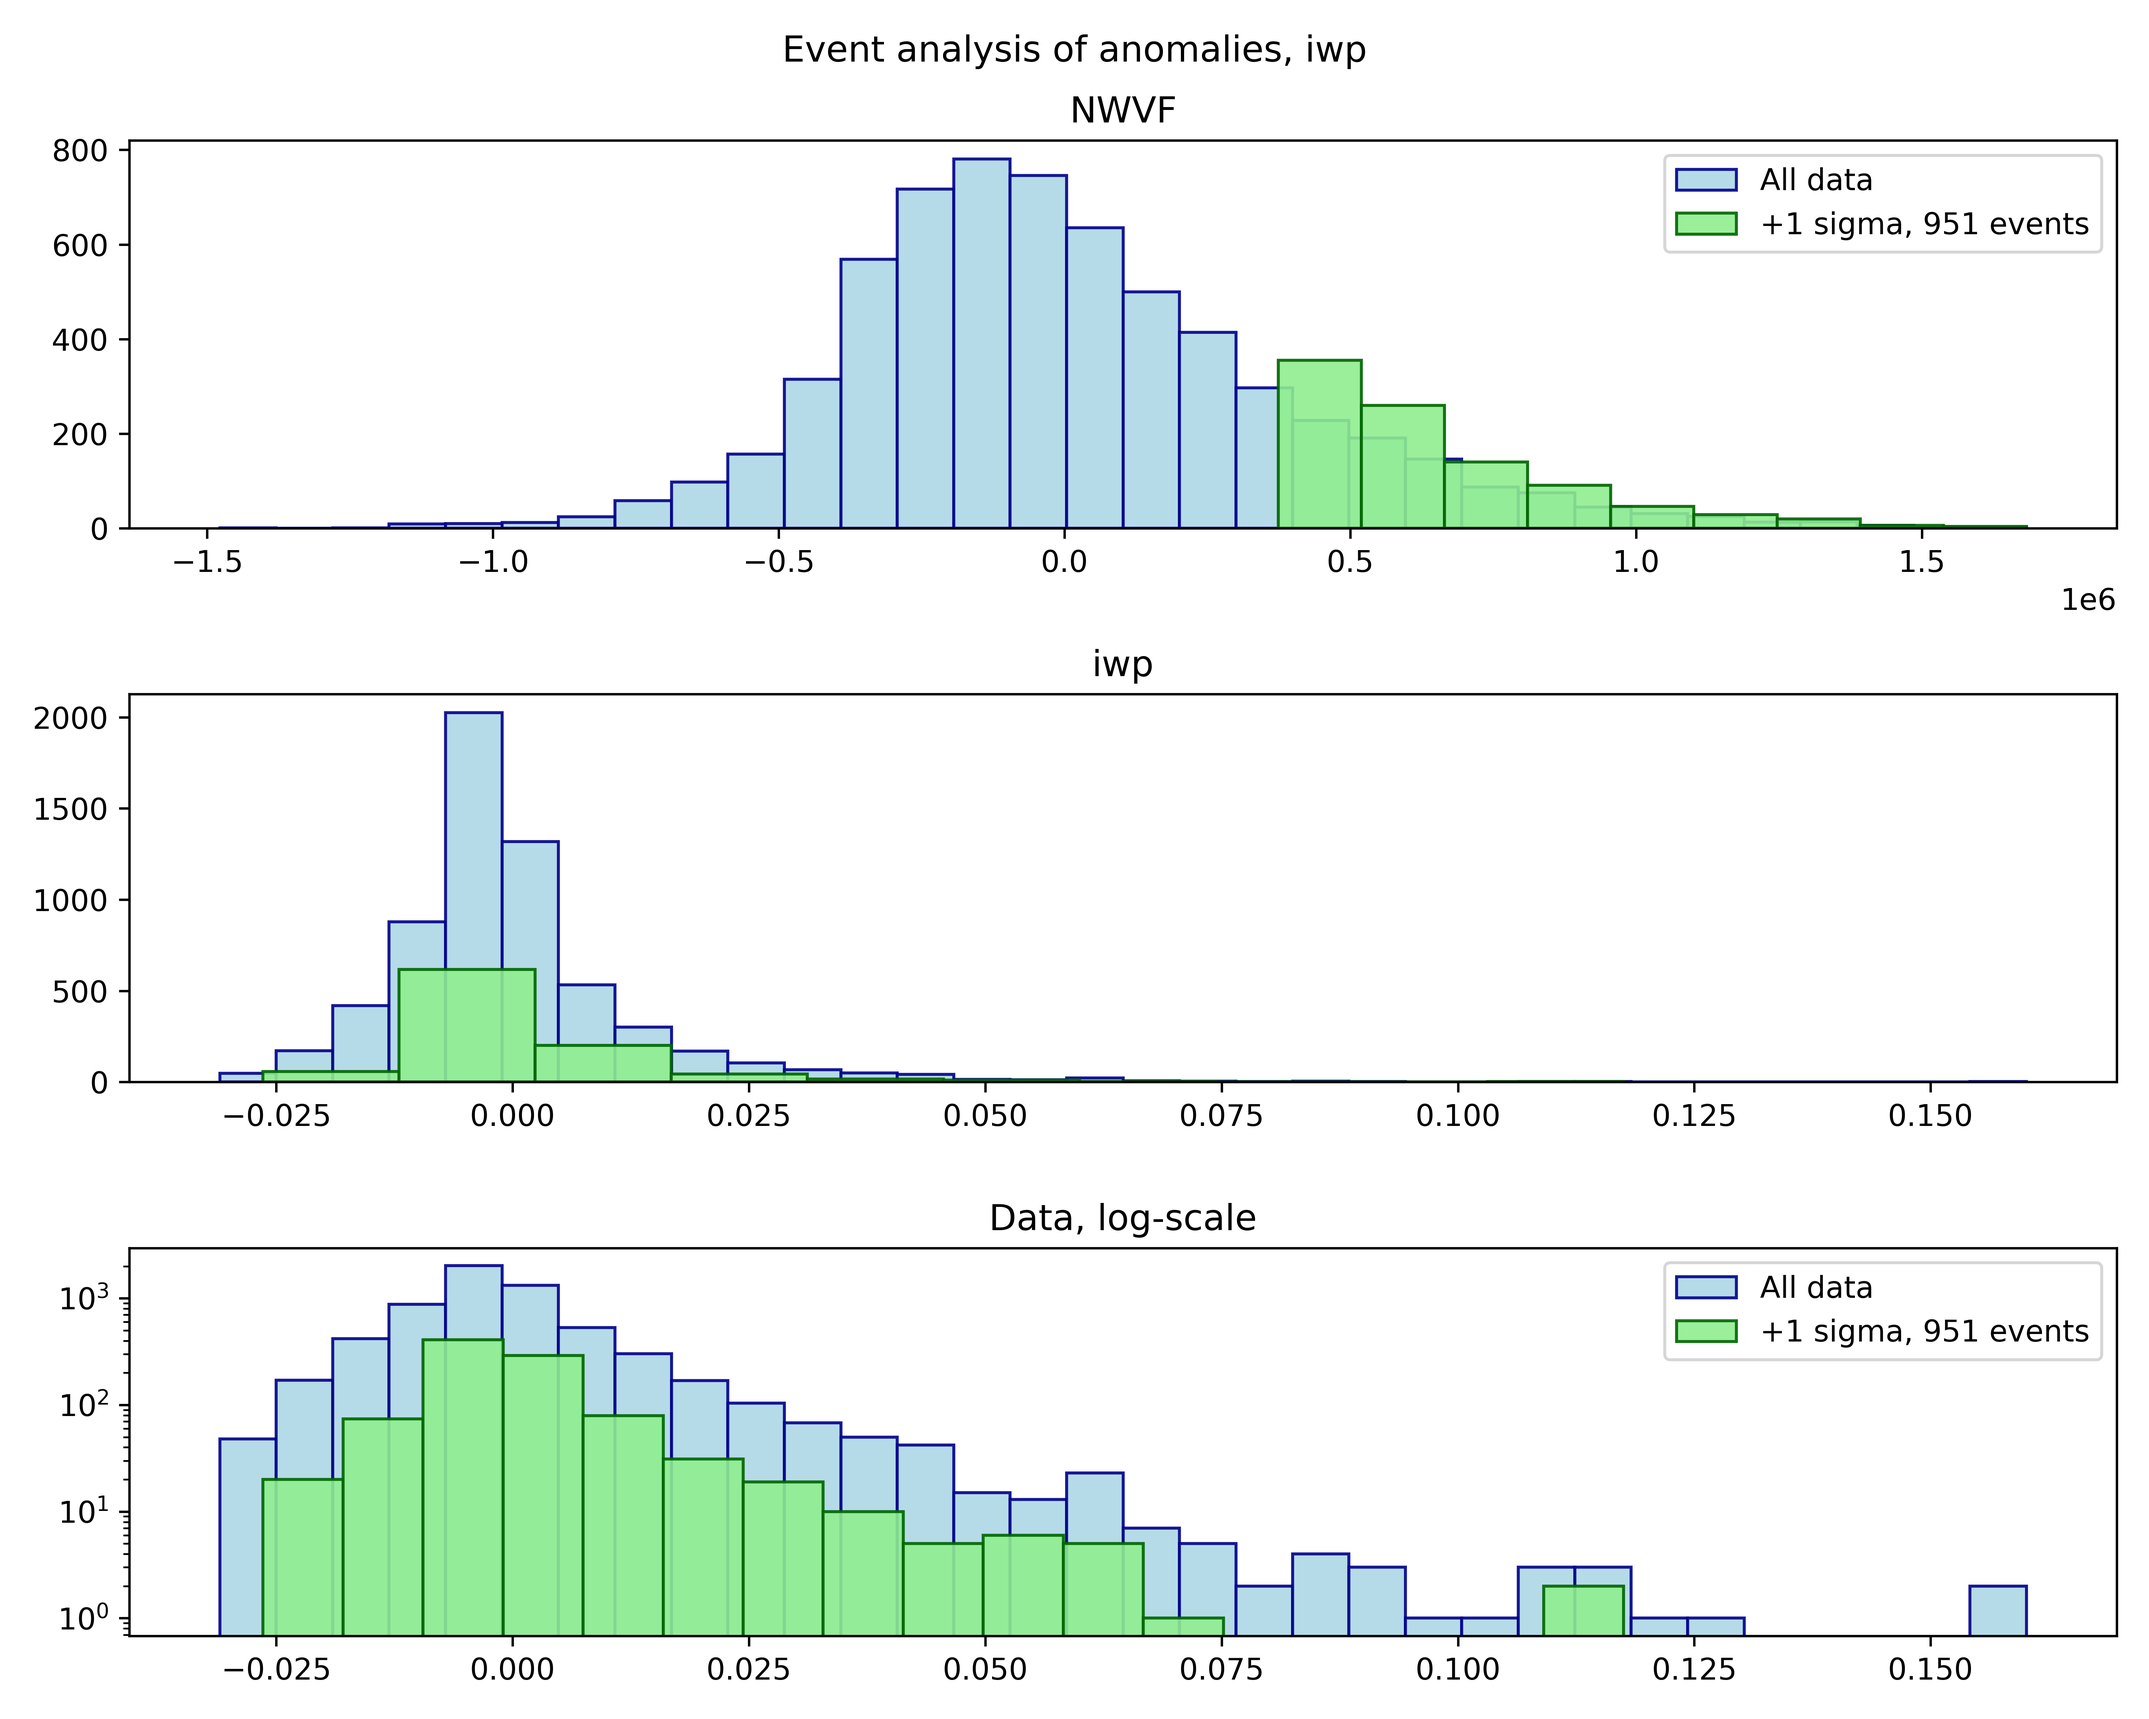
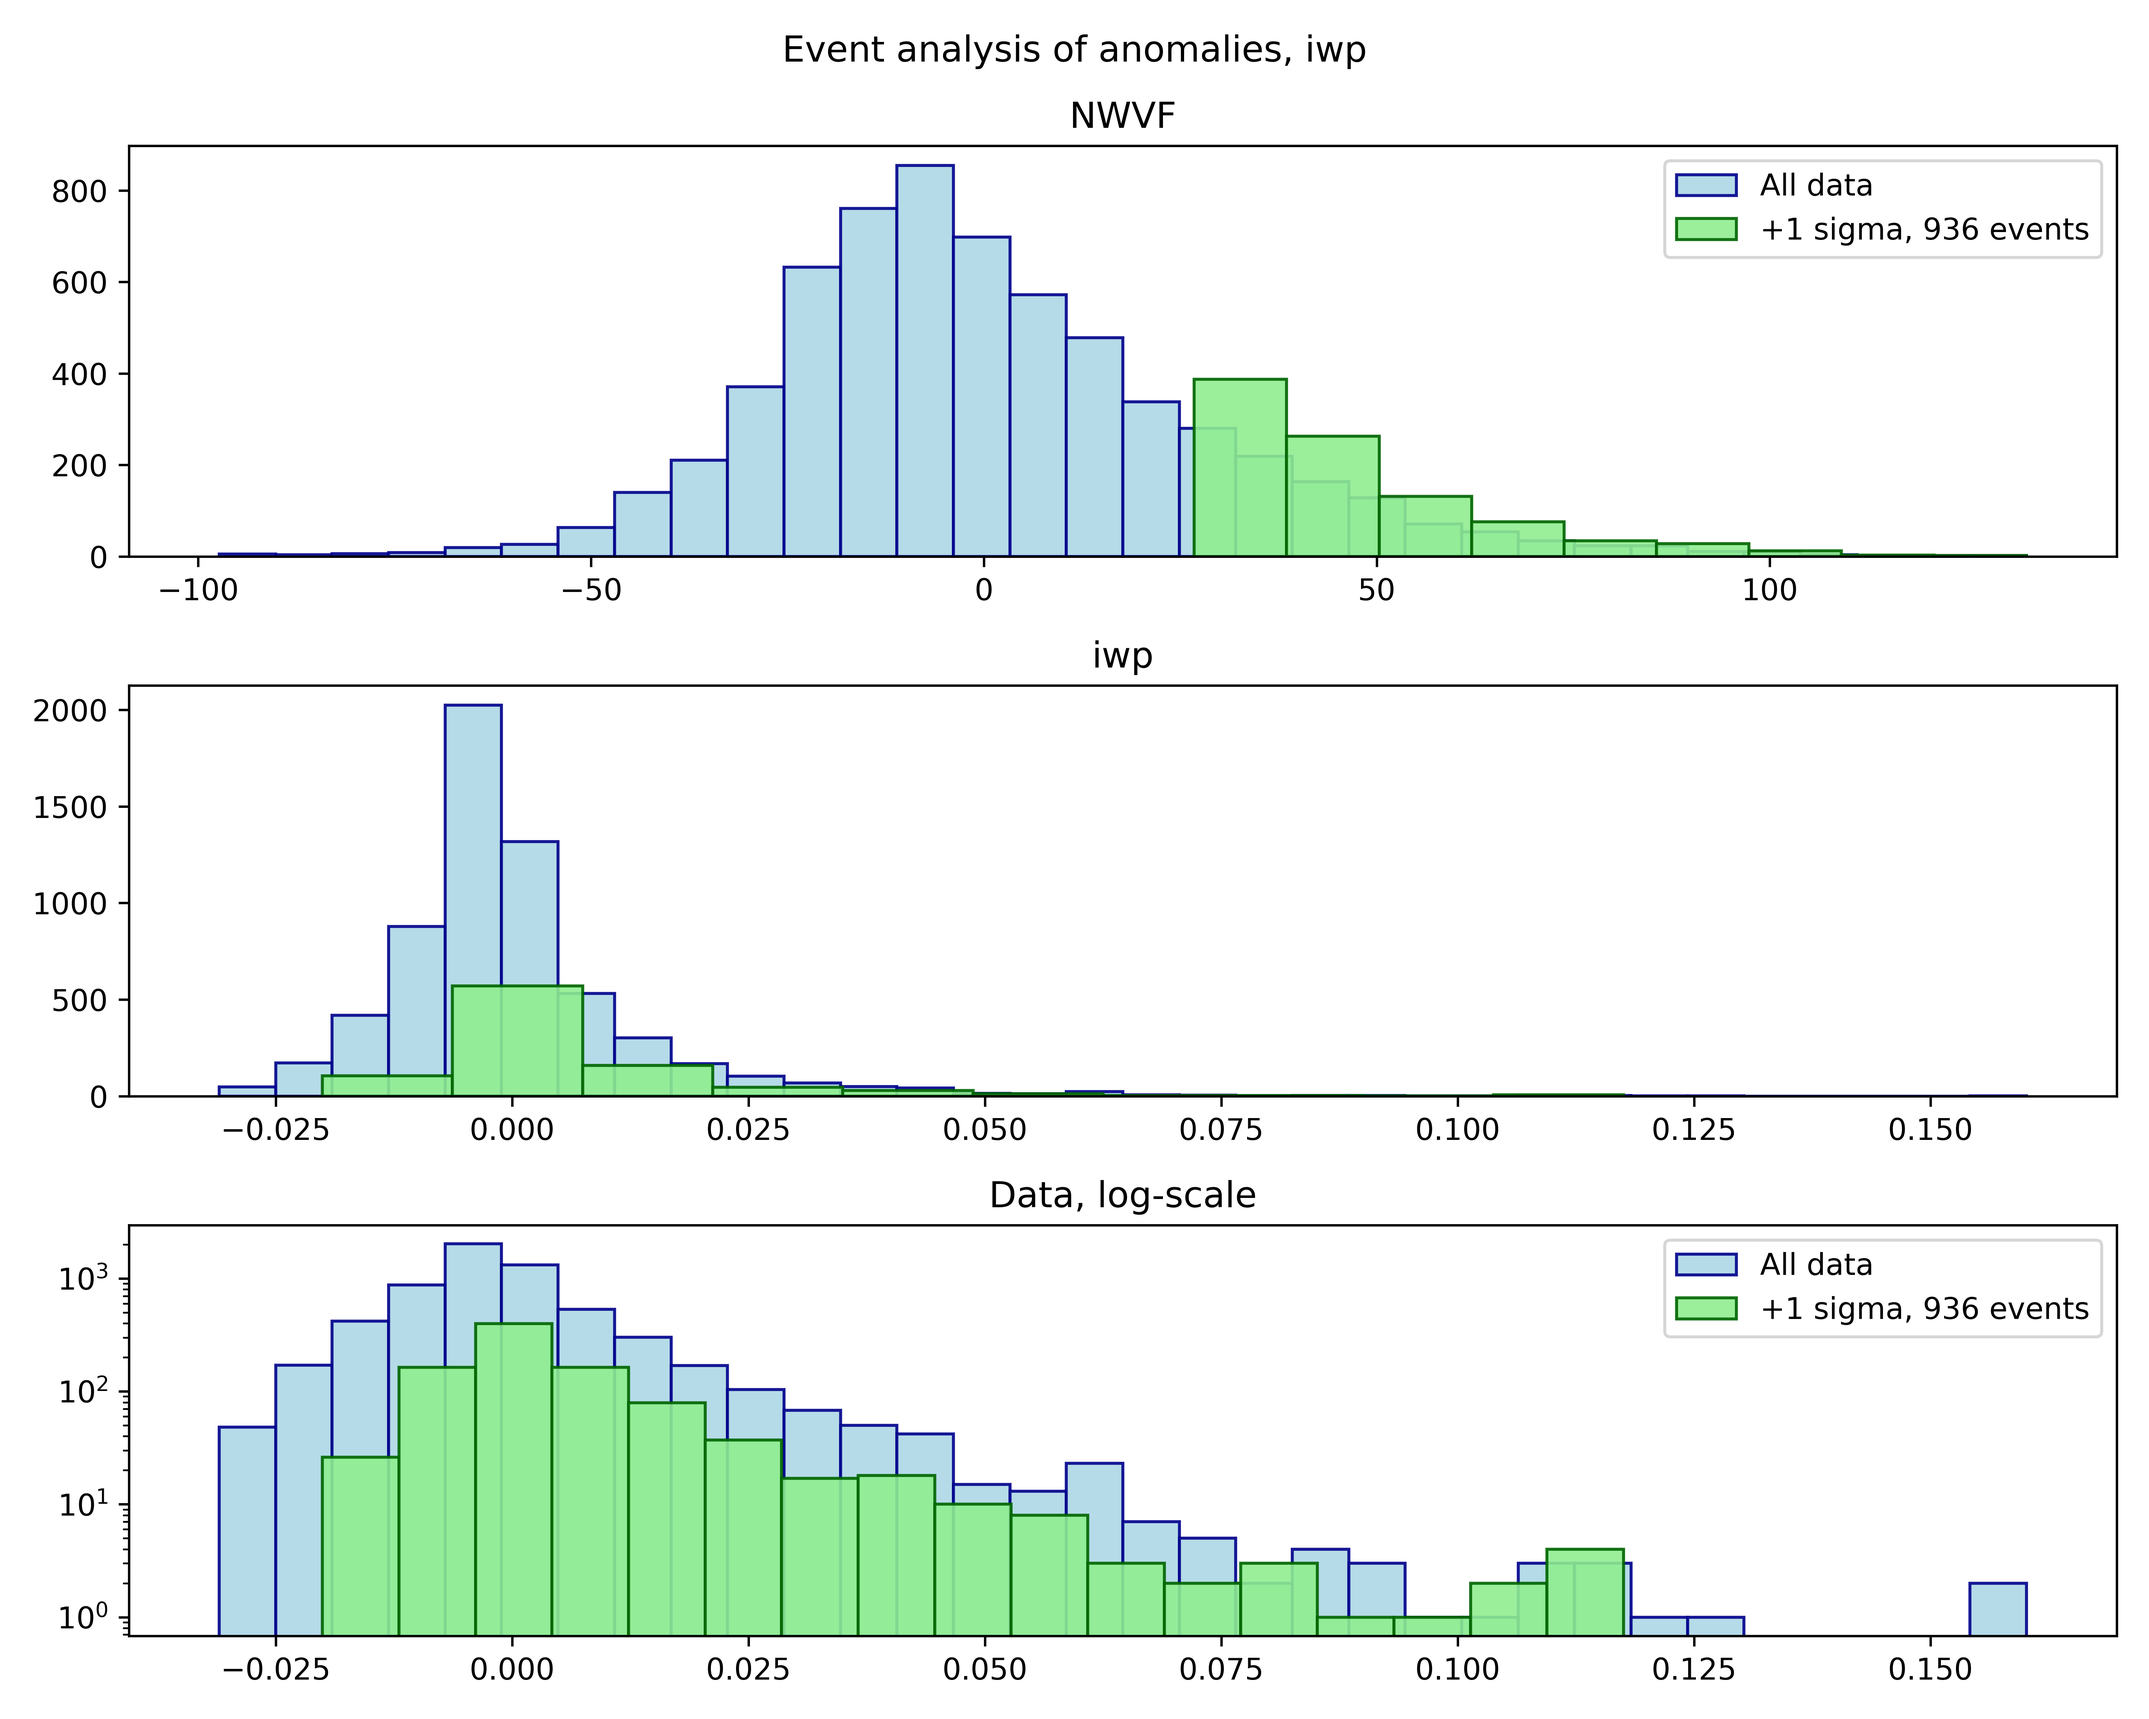
New cloud Figures updated

diff --git a/Scripts/Analysis/timeseries_analysis_general.py b/Scripts/Analysis/timeseries_analysis_general.py
@@ -30,18 +30,31 @@ PATH_FIGS = '../../Figures/AnomalyTimeseriesAnalysis/'
 if not os.path.exists(PATH_FIGS):
     os.makedirs(PATH_FIGS)
 
-nwvf_filename = 'Processed_MAIA/MAIA_nwvf_integrals_1994-2022__6hr_mean.nc'
+nwvf_filename = 'ModelData/TS_Clouds_ArcticSlice.txt' #'Processed_MAIA/MAIA_nwvf_integrals_1994-2022__6hr_mean.nc'
 model_data_filename = 'ModelData/TS_Clouds_ArcticSlice.txt'
 
 
 # NWVF DATA
 
 # Read ERA5 NWVF (6 hourly) data from .nc file
-NWVF_ERA5 = xr.open_dataset(PATH_DATA + nwvf_filename)
+NWVF_ERA5 = pd.read_csv(PATH_DATA + nwvf_filename) #xr.open_dataset(PATH_DATA + nwvf_filename)
 
+print(NWVF_ERA5)
 # Resample NWVF data to daily data and save in dataframe
-daily_NWVF = NWVF_ERA5['nwvf_integral'].resample(time='1D').sum()
-daily_NWVF_df = daily_NWVF.to_dataframe()
+
+#daily_NWVF = NWVF_ERA5['nwvf_integral'].resample(time='1D').sum()
+
+daily_NWVF = NWVF_ERA5['pvq']#.resample(time='1D').sum()
+daily_dates = NWVF_ERA5['date']#.resample(time='1D').mean()
+print(daily_NWVF)
+# Create a dataframe with the daily NWVF data
+daily_NWVF_df = pd.DataFrame(daily_NWVF)
+# Change the name of the column to 'nwvf_integral'
+daily_NWVF_df.columns = ['nwvf_integral']
+
+daily_NWVF_df['time'] = daily_dates
+# To datetime
+daily_NWVF_df['time'] = pd.to_datetime(daily_NWVF_df['time'])
 
 # Reset index of daily_NWVF_df
 daily_NWVF_df.reset_index(inplace=True)
@@ -50,10 +63,9 @@ daily_NWVF_df.reset_index(inplace=True)
 daily_NWVF_df = daily_NWVF_df[daily_NWVF_df['time'] >= start_date_str]
 daily_NWVF_df = daily_NWVF_df[daily_NWVF_df['time'] <= end_date_str]
 
-
+print(daily_NWVF_df)
 
 # MODEL DATA
-
 # Read model data
 model_data = pd.read_csv(PATH_DATA + model_data_filename)
 
@@ -173,7 +185,7 @@ for i, ax in enumerate(axs3):
 # Start with plotting NWVF, climatology
 axs2[0].plot(NWVF_climatology_smooth.index, NWVF_climatology_smooth['nwvf_integral', 'mean'], label='NWVF', color='black', lw=1)
 
-
+print(NWVF_anomalies)
 axs3[0, 0].plot(NWVF_anomalies['time'], NWVF_anomalies['anomaly'], label='NWVF', color='black', lw=1)
 axs3[0, 1].hist(NWVF_anomalies['anomaly'], bins=30, color='black', alpha=0.5, orientation='horizontal', label='NWVF') # density=True,
 

diff --git a/Scripts/Analysis/timeseries_analysis.py b/Scripts/Analysis/timeseries_analysis.py
@@ -298,7 +298,7 @@ if __name__ == '__main__':
     # Import aerosol txt file (with header)
     aerosol_data = pd.read_csv(PATH_DATA + 'ModelData/TS_AerosolBurden_ArcticSlice' + region_str + '.txt') #AerosolBurden
     cloud_data = pd.read_csv(PATH_DATA + 'ModelData/TS_Clouds_ArcticSlice.txt')
-    print(cloud_data.head())
+    
 
 
     # Save time data in datetime format in dataframe and crop data to only after 1997 and before 2022-07-01
@@ -354,7 +354,7 @@ if __name__ == '__main__':
 
     # Figure to plot all smoothed aerosol climatologies (one subplot) and smoothed NWVF climatology (one subplot)
     fig_clim, axs_clim = plt.subplots(2, 1, figsize=(18, 6), sharex=True)
-    axs_clim[0].set_title('Smoothed climatology, aerosols')
+    axs_clim[0].set_title(f'Smoothed climatology, aerosols')
     # Set x-axis to [first_day, last_day]
     axs_clim[0].set_xlim([1, 366])
     # Add grid and axis labels
@@ -472,6 +472,7 @@ if __name__ == '__main__':
     sigma_ns = 1
     # Loop through all aerosol anomaly dataframes and perform event analysis
     for i, aerosol_anomaly_df in enumerate(aerosol_anomaly_dfs):
+        aerosol_str = aerosol_types[i]
         # Get the aerosol name
         aerosol_name = aerosol_types[i]
         # Create an EventAnalysis object
@@ -583,9 +584,9 @@ if __name__ == '__main__':
         ax[0].set_title('NWVF')
         ax[0].legend()
 
-        ax[1].plot(x_aerosol, f_aerosol, label='Aerosol', color='teal')
-        ax[1].plot(x_masked_aerosol, f_masked_aerosol, label='Aerosol masked', color='green')
-        ax[1].set_title('Aerosol')
+        ax[1].plot(x_aerosol, f_aerosol, label=aerosol_str, color='teal')
+        ax[1].plot(x_masked_aerosol, f_masked_aerosol, label=f'{aerosol_str} masked', color='green')
+        ax[1].set_title(aerosol_str)
         ax[1].legend()
 
         fig.tight_layout()
@@ -595,8 +596,8 @@ if __name__ == '__main__':
 
 
 
-        plt.show()
-        break
+    plt.show()
+        
 
 
 
